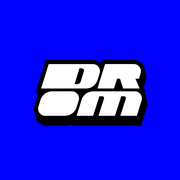
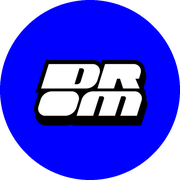
Retomada: sem cadastro por issues, push a cada 3 h, título DROM Artista, ícone redondo
- Remove o cadastro automático via issues (sub.yml, addsub.mjs, tk.json, token no d.json); volta o código DROM-MANEIRA enviado pelo app
- notify.yml: agendamento a cada 3 h
- Título e nome do app "DROM Artista"; ícones em círculo azul

Claude-Session: https://claude.ai/code/session_01RVLZFhfJQSwQuDvZBTdNnw

diff --git a/maneira038/n.js b/maneira038/n.js
@@ -19,18 +19,14 @@ function fd(ts){var d=new Date(ts);return String(d.getDate()).padStart(2,"0")+"/
 function pushOk(){return "serviceWorker" in navigator&&"PushManager" in window&&"Notification" in window}
 function draw(){pn.innerHTML='<div class="nh"><b>Notificações</b><button class="nx" aria-label="Fechar">✕</button></div>'+
  (log.length?log.map(x=>'<div class="ni'+(x.r?"":" nu")+'"><b>'+esc(x.t)+"</b><span>"+esc(x.b)+"</span><em>"+fd(x.ts)+"</em></div>").join(""):'<p class="ne">Nenhuma notificação ainda.</p>')+
- '<div class="nf">'+(pushOk()?(Notification.permission==="granted"&&ls.g("subok")?'<p class="ne">✓ Notificações ativadas neste aparelho.</p><button class="np">Ativar de novo</button>':'<button class="np">Ativar notificações no celular</button>'):'<p class="ne">Para receber notificações no celular, adicione este app à tela de início (Safari: Compartilhar → Adicionar à Tela de Início) e abra por lá.</p>')+
+ '<div class="nf">'+(pushOk()?(Notification.permission==="granted"?'<button class="np">Código das notificações no celular</button>':'<button class="np">Ativar notificações no celular</button>'):'<p class="ne">Para receber notificações no celular, adicione este app à tela de início (Safari: Compartilhar → Adicionar à Tela de Início) e abra por lá.</p>')+
  (window.DROMUPD?'<p class="ne">Dados atualizados em '+window.DROMUPD+"</p>":"")+"</div>";
  pn.querySelector(".nx").onclick=()=>{pn.hidden=true};var np=pn.querySelector(".np");if(np)np.onclick=sub}
 function u8(b){var p="=".repeat((4-b.length%4)%4),r=atob((b+p).replace(/-/g,"+").replace(/_/g,"/"));return Uint8Array.from(r,c=>c.charCodeAt(0))}
 async function sub(){var nf=pn.querySelector(".nf");try{
  if(await Notification.requestPermission()!=="granted"){nf.insertAdjacentHTML("beforeend",'<p class="ne">Permissão negada. Libere as notificações nas configurações do navegador.</p>');return}
  var reg=await navigator.serviceWorker.ready,s=await reg.pushManager.getSubscription()||await reg.pushManager.subscribe({userVisibleOnly:true,applicationServerKey:u8(VAPID)});
- var sj=JSON.stringify(s);
- if(window.DROMDATA._tk&&window.DROMKEY){try{var iv=crypto.getRandomValues(new Uint8Array(12)),ct=new Uint8Array(await crypto.subtle.encrypt({name:"AES-GCM",iv:iv},window.DROMKEY,new TextEncoder().encode(sj))),b6=u=>btoa(String.fromCharCode.apply(null,u));
-  var r=await fetch("https://api.github.com/repos/mayconlsilva93/drom.apps/issues",{method:"POST",headers:{"Authorization":"Bearer "+window.DROMDATA._tk,"Accept":"application/vnd.github+json","Content-Type":"application/json"},body:JSON.stringify({title:"sub "+location.pathname.split("/").filter(Boolean).pop(),body:JSON.stringify({iv:b6(iv),ct:b6(ct)})})});
-  if(r.ok){ls.s("subok",s.endpoint);nf.innerHTML='<p class="ne">✓ Notificações ativadas neste aparelho. Os avisos começam a chegar em alguns minutos.</p>';return}}catch(e){}}
- var code="DROM-MANEIRA:"+btoa(sj);
+ var code="DROM-MANEIRA:"+btoa(JSON.stringify(s));
  nf.innerHTML='<p class="ne">Último passo: envie este código para a DROM (uma vez por aparelho).</p><textarea readonly class="nc">'+code+'</textarea><button class="np" id="nsh">'+(navigator.share?"Enviar código":"Copiar código")+"</button>";
  document.getElementById("nsh").onclick=async()=>{try{if(navigator.share)await navigator.share({text:code});else{await navigator.clipboard.writeText(code);document.getElementById("nsh").textContent="Copiado ✓"}}catch(e){}};
  }catch(e){nf.insertAdjacentHTML("beforeend",'<p class="ne">Não foi possível ativar: '+(e.message||e)+"</p>")}}

diff --git a/maneira038/lock.js b/maneira038/lock.js
@@ -7,7 +7,7 @@ async function kget(){try{var d=await db();return await new Promise(ok=>{var q=d
 async function kput(v){try{var d=await db();d.transaction("k","readwrite").objectStore("k").put(v,"maneira")}catch(e){}}
 async function kdel(){try{var d=await db();d.transaction("k","readwrite").objectStore("k").delete("maneira")}catch(e){}}
 async function derive(pin,salt){var k=await crypto.subtle.importKey("raw",new TextEncoder().encode(pin),"PBKDF2",false,["deriveKey"]);
- return crypto.subtle.deriveKey({name:"PBKDF2",salt:b64(salt),iterations:200000,hash:"SHA-256"},k,{name:"AES-GCM",length:256},false,["decrypt","encrypt"])}
+ return crypto.subtle.deriveKey({name:"PBKDF2",salt:b64(salt),iterations:200000,hash:"SHA-256"},k,{name:"AES-GCM",length:256},false,["decrypt"])}
 async function dec(key){var t=await crypto.subtle.decrypt({name:"AES-GCM",iv:b64(D.iv)},key,b64(D.ct));return JSON.parse(new TextDecoder().decode(t))}
 async function load(){var r=await fetch("d.json",{cache:"no-store"});if(!r.ok)throw new Error("d.json");D=await r.json()}
 function go(data){window.DROMDATA=data;window.DROMUPD=D.up||"";lk.remove();document.body.classList.remove("locked");
@@ -15,12 +15,12 @@ function go(data){window.DROMDATA=data;window.DROMUPD=D.up||"";lk.remove();docum
 async function start(){
  try{await load()}catch(e){msg.textContent="Sem conexão. Tente de novo.";return}
  var st=await kget();
- if(st&&st.v===2&&st.salt===D.salt&&Date.now()-st.ts<WEEK){try{var dd=await dec(st.key);window.DROMKEY=st.key;go(dd);return}catch(e){}}
+ if(st&&st.salt===D.salt&&Date.now()-st.ts<WEEK){try{go(await dec(st.key));return}catch(e){}}
  if(st)await kdel();
  lk.hidden=false;inp.focus();
 }
 document.getElementById("lkf").onsubmit=async function(e){e.preventDefault();var pin=inp.value.trim();if(!pin)return;msg.textContent="Verificando…";
- try{var key=await derive(pin,D.salt),data=await dec(key);await kput({key:key,salt:D.salt,ts:Date.now(),v:2});window.DROMKEY=key;go(data)}
+ try{var key=await derive(pin,D.salt),data=await dec(key);await kput({key:key,salt:D.salt,ts:Date.now()});go(data)}
  catch(er){msg.textContent="PIN incorreto.";inp.value="";inp.focus()}};
 if("serviceWorker" in navigator)navigator.serviceWorker.register("sw.js").catch(()=>{});
 start();

diff --git a/maneira038/index.html b/maneira038/index.html
@@ -3,10 +3,10 @@
 <head>
 <meta charset="utf-8">
 <meta name="viewport" content="width=device-width, initial-scale=1, viewport-fit=cover">
-<title>DJ Maneira | DROM</title>
+<title>DROM Artista</title>
 <meta name="theme-color" content="#0000FF">
 <meta name="apple-mobile-web-app-capable" content="yes">
-<meta name="apple-mobile-web-app-title" content="Maneira">
+<meta name="apple-mobile-web-app-title" content="DROM Artista">
 <link rel="manifest" href="manifest.webmanifest">
 <link rel="apple-touch-icon" href="apple-touch-icon.png">
 <link rel="icon" href="icon-192.png">

diff --git a/tools/enc.py b/tools/enc.py
@@ -18,9 +18,6 @@ if os.path.exists(out):
     except Exception: pass
 salt=salt or os.urandom(16)
 key=PBKDF2HMAC(hashes.SHA256(),32,salt,200000).derive(pin)
-tk=os.path.join(app,'tk.json')
-if os.path.exists(tk):
-    d=json.load(open(tk));obj=json.loads(data);obj['_tk']=json.loads(AESGCM(key).decrypt(base64.b64decode(d['iv']),base64.b64decode(d['ct']),None))['t'];data=json.dumps(obj,ensure_ascii=False,separators=(',',':')).encode()
 iv=os.urandom(12)
 up=(datetime.datetime.now(datetime.timezone.utc)-datetime.timedelta(hours=3)).strftime('%d/%m/%Y %H:%M')
 json.dump({'salt':b(salt),'iv':b(iv),'ct':b(AESGCM(key).encrypt(iv,data,None)),'up':up},open(out,'w'))
